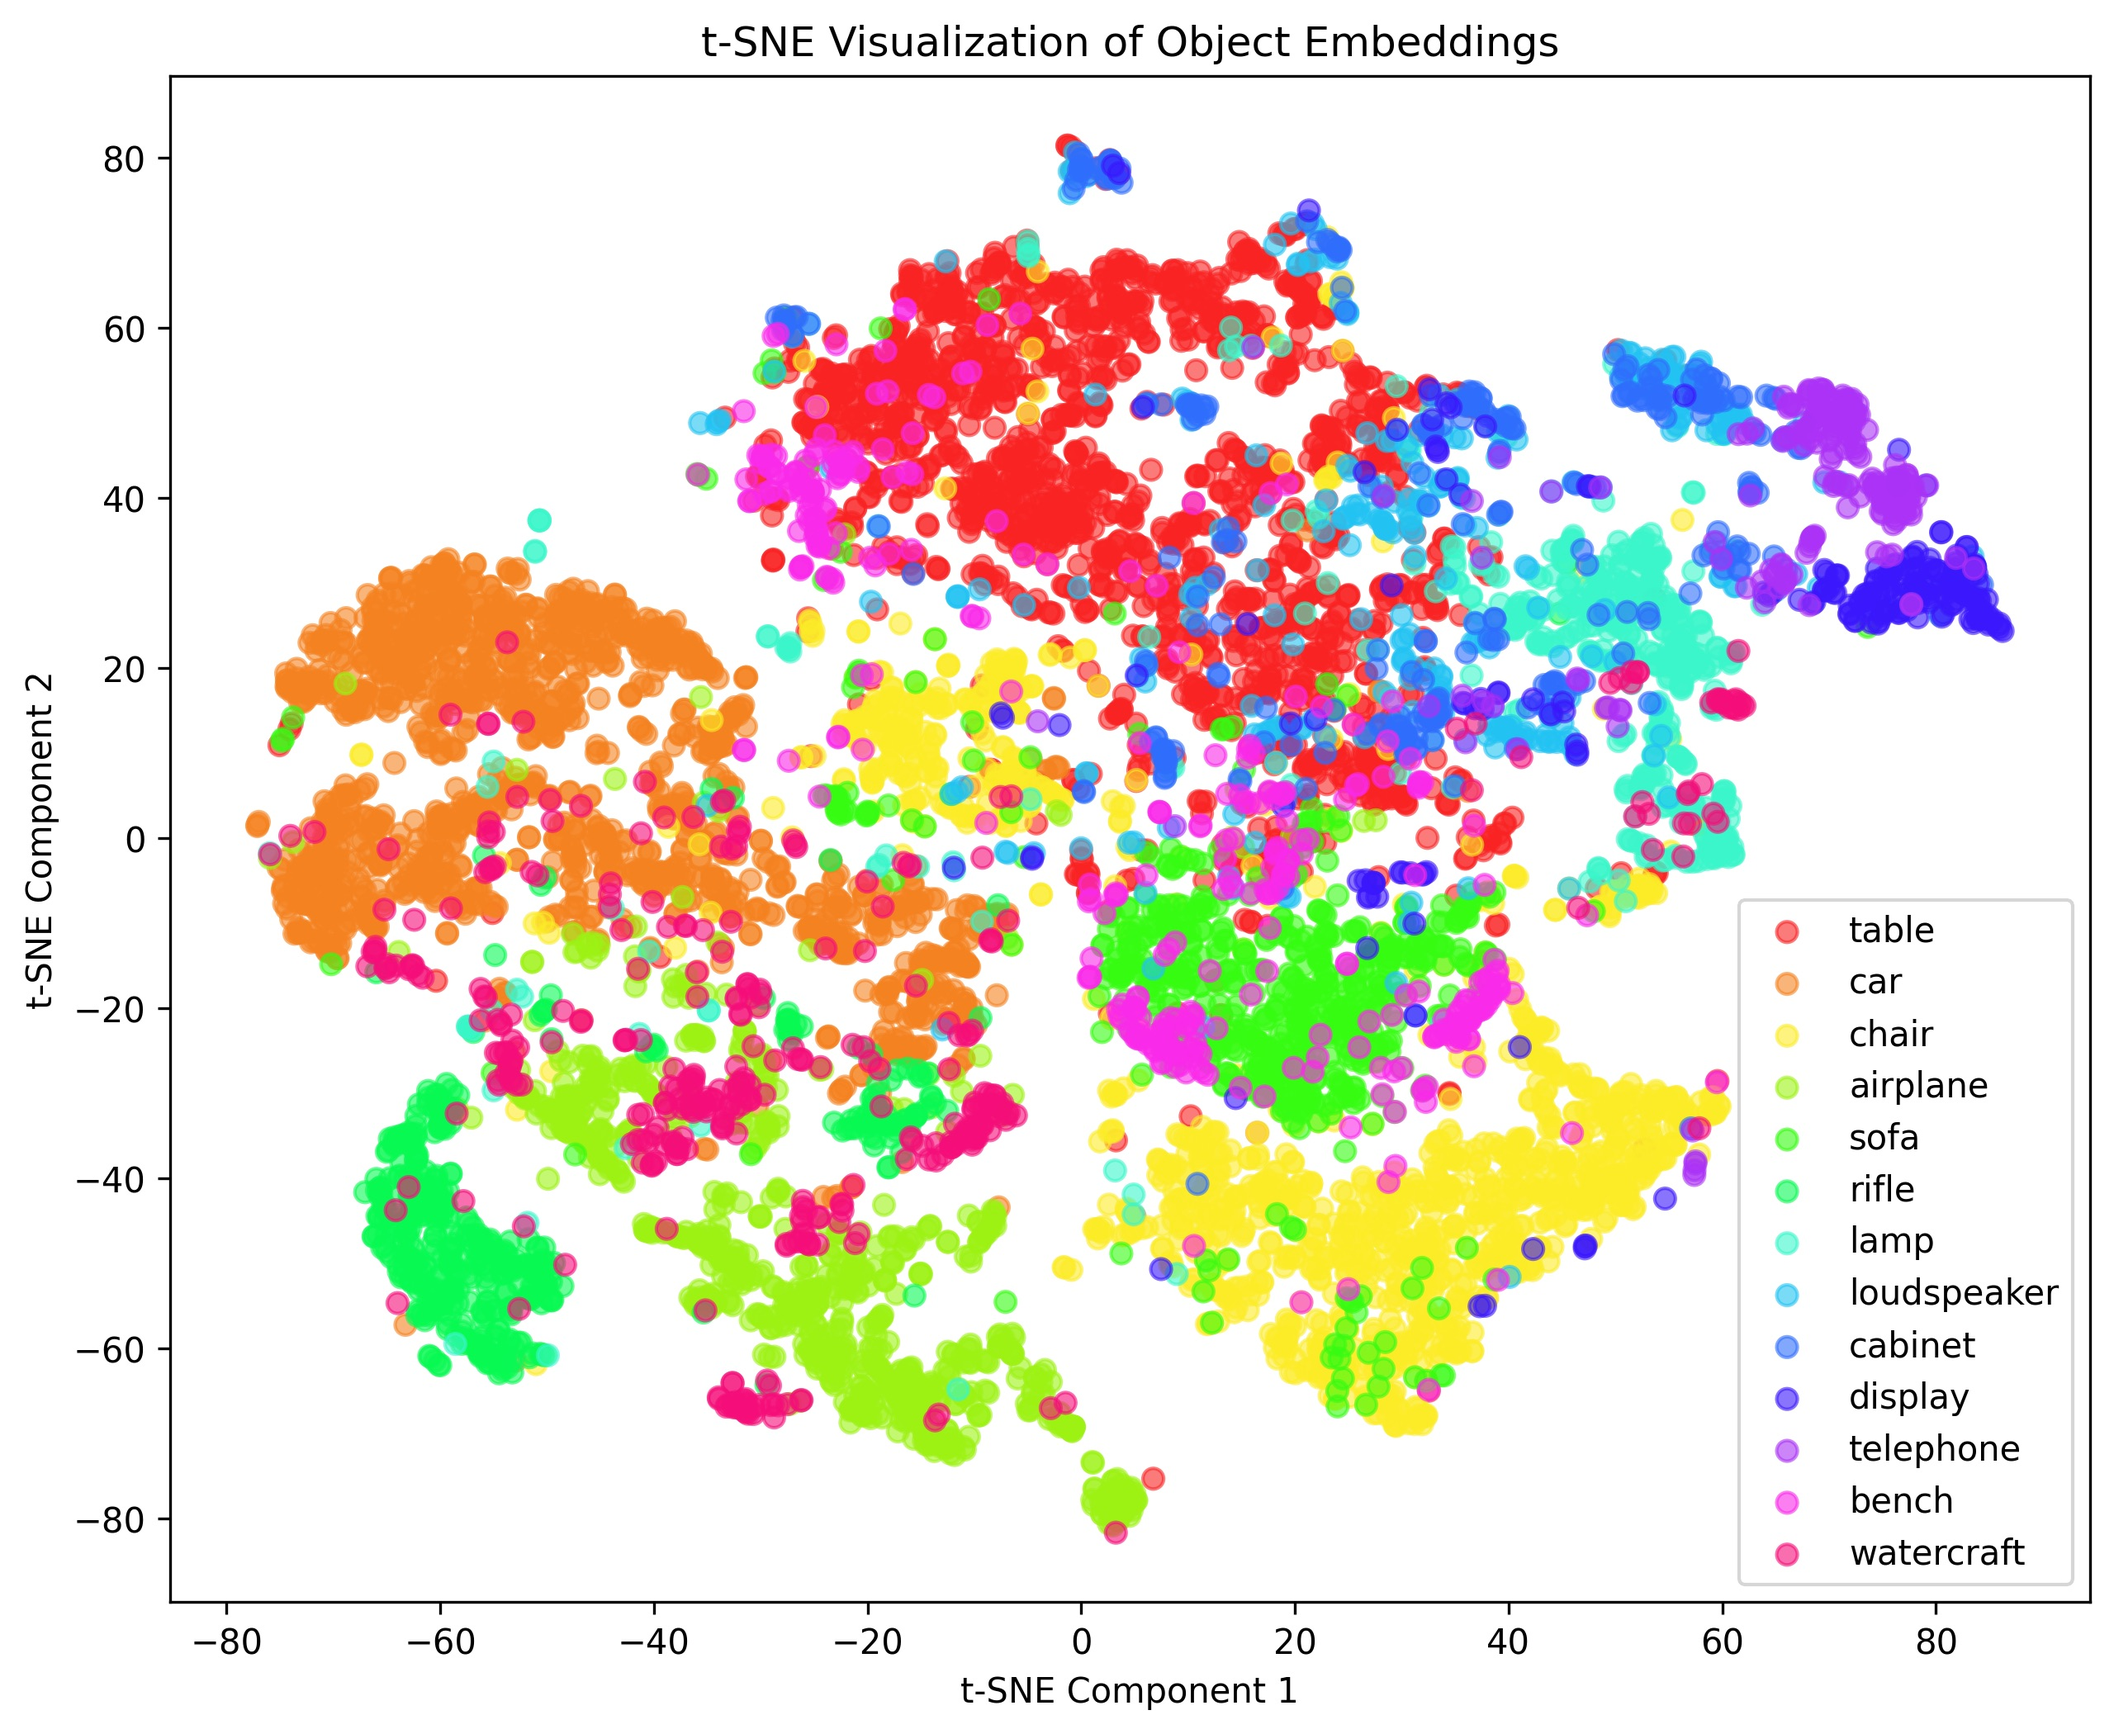
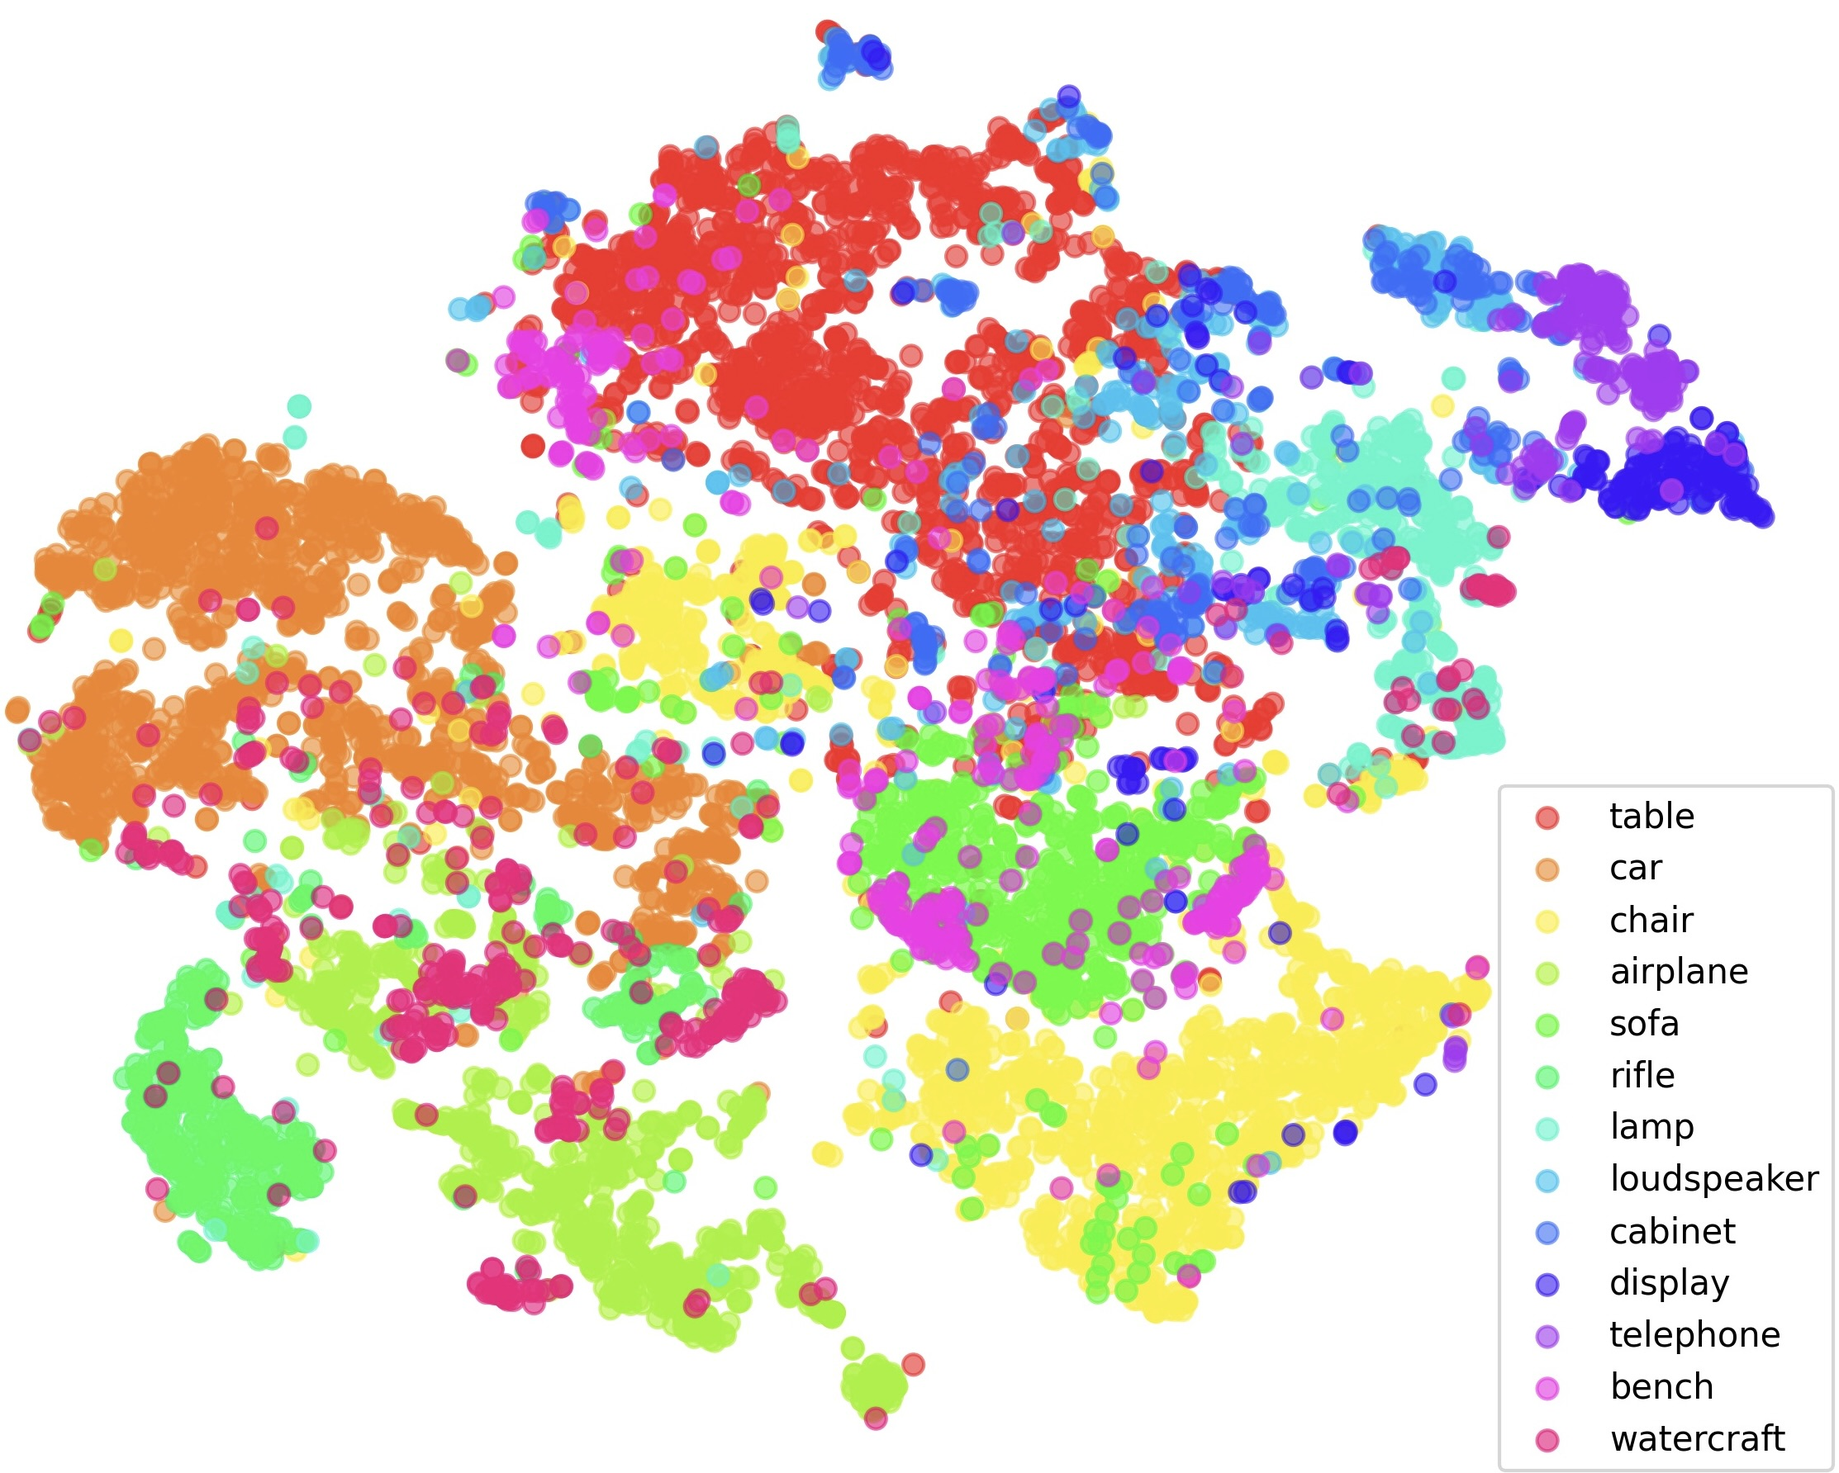
cropped tsne

diff --git a/index.html b/index.html
@@ -555,7 +555,7 @@
             <img
               src="./static/figures/compressed/additional/tsne_visualization.jpeg"
               alt="t-SNE visualization of primitive embeddings"
-              style="width: 60%; object-fit: cover; clip-path: inset(30px 10px 40px 60px);"
+              style="width: 60%; object-fit: cover;"
             />
             <figcaption style="margin-top: 0.75rem;">
               <strong>t-SNE Visualization of Primitive Embeddings</strong> across different ShapeNet classes.
